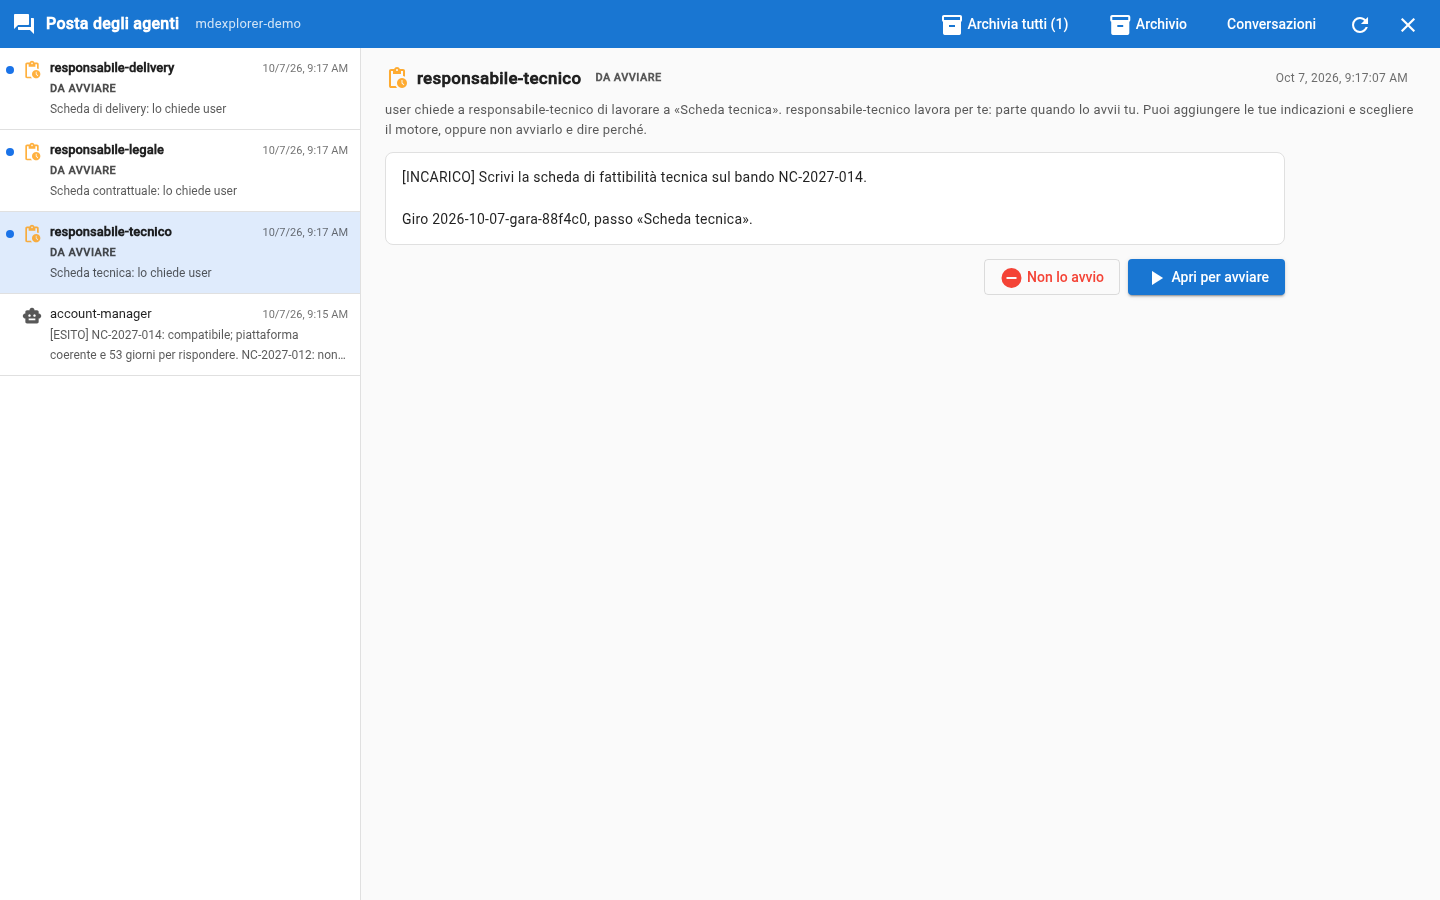
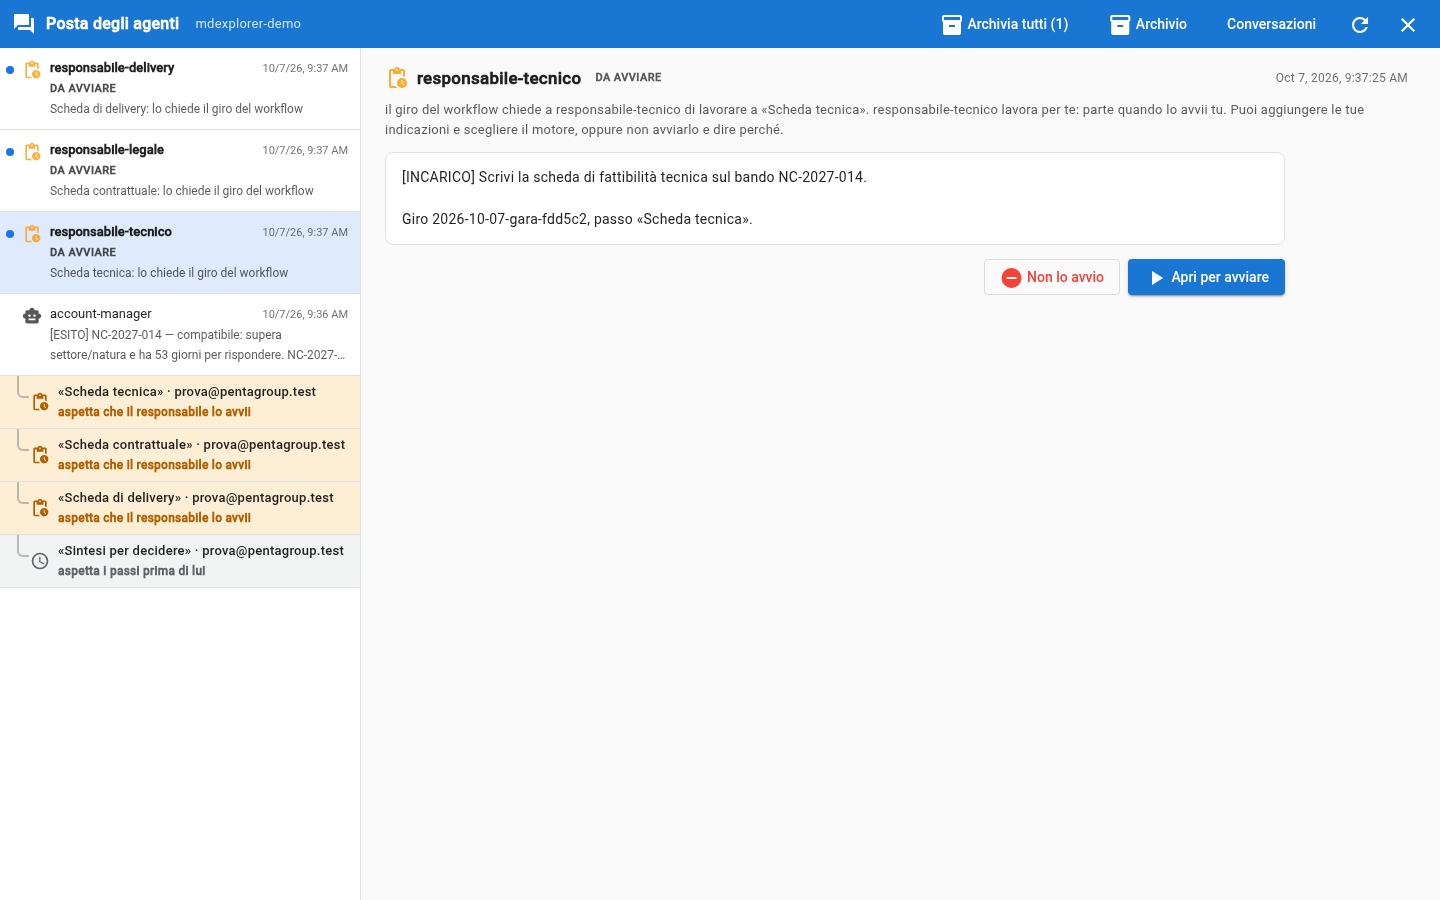
docs(presentazione): il giro con il workflow
Le slide del giro raccontano lo schedulatore: il pulsante fa partire le schede «da
avviare», una slide nuova con il diagramma generato dal workflow, le righe del giro
sotto il messaggio del pulsante, l'approvazione che fa andare avanti il giro e la
sintesi che parte da sola. Schermate ritagliate per le slide; la schermata dei «da
avviare» rifatta con «il giro del workflow».

Claude-Session: https://claude.ai/code/session_01PV9upa1CUWdniCKocNXSwe

diff --git a/citta-degli-agenti/presentazione/citta-degli-agenti.md b/citta-degli-agenti/presentazione/citta-degli-agenti.md
@@ -27,7 +27,7 @@ Lui prepara. **Tu verifichi. Tu decidi.**
 Note:
 Aprire dicendo cosa si vedrà: una gara d'appalto vera nella forma, inventata nei nomi. Quattro persone, ognuna con un assistente
 AI. Il messaggio da portare a casa è uno: gli assistenti preparano il lavoro, ma nessun lavoro passa al passo successivo
-senza un gesto di una persona.
+senza un gesto di una persona. Chi viene dopo chi lo dice un piano scritto, il workflow, e lo esegue MdExplorer.
 
 ---
 
@@ -96,7 +96,7 @@ ogni responsabile deve leggerlo cercando cose diverse. In pratica ognuno legge l
 <div class="fragment fade-in" style="background:#fff; border-radius:16px; padding:22px 26px; box-shadow:0 8px 24px rgba(15,27,45,.12); width:250px">
 <div style="font-size:.5em; color:#5f6368; font-weight:800; letter-spacing:.08em">TU</div>
 <div style="font-size:1.35em; font-weight:800; color:#188038; margin:6px 0">DECIDI</div>
-<div style="font-size:.6em; line-height:1.3">a chi passare il lavoro, e se partecipare alla gara</div>
+<div style="font-size:.6em; line-height:1.3">quando parte un lavoro, chi lo fa, e se partecipare alla gara</div>
 </div>
 
 </div>
@@ -233,23 +233,64 @@ Onestà: il sito è un file nel progetto, in azienda l'assistente lo leggerebbe 
 
 <div style="display:flex; flex-direction:column; align-items:center; gap:18px; margin-top:6px">
 
-<img src="assets/schermate/risposta.png" alt="Il pulsante Avvia il giro su NC-2027-014 sotto il messaggio dell'account manager" width="640" style="margin:0; border-radius:12px; box-shadow:0 10px 30px rgba(15,27,45,.28); border:1px solid #d6deea">
+<img src="assets/schermate/slide-da-avviare.png" alt="Le tre schede «da avviare» nella posta, con l'incarico del giro" width="900" style="margin:0; border-radius:12px; box-shadow:0 10px 30px rgba(15,27,45,.28); border:1px solid #d6deea">
 
 <div class="r-hstack" style="gap:16px; align-items:center; font-size:.62em">
-<div style="background:#fff; border-radius:12px; padding:10px 18px; box-shadow:0 6px 18px rgba(15,27,45,.12); font-weight:800; color:#f29900">account manager</div>
-<div class="fragment fade-in" style="font-size:1.4em; color:#8a99ad">→ incarico a →</div>
+<div style="background:#fff; border-radius:12px; padding:10px 18px; box-shadow:0 6px 18px rgba(15,27,45,.12); font-weight:800; color:#f29900">il tuo pulsante</div>
+<div class="fragment fade-in" style="font-size:1.4em; color:#8a99ad">→ il workflow →</div>
 <div class="fragment fade-in" style="display:flex; gap:10px">
 <div style="background:#fff; border-top:6px solid #1a73e8; border-radius:10px; padding:8px 14px; box-shadow:0 6px 18px rgba(15,27,45,.12)">tecnico</div>
 <div style="background:#fff; border-top:6px solid #7b61ff; border-radius:10px; padding:8px 14px; box-shadow:0 6px 18px rgba(15,27,45,.12)">legale</div>
 <div style="background:#fff; border-top:6px solid #188038; border-radius:10px; padding:8px 14px; box-shadow:0 6px 18px rgba(15,27,45,.12)">delivery</div>
 </div>
+<div class="fragment fade-in" style="font-size:1em; color:#b06000; font-weight:800">da avviare</div>
 </div>
 
 </div>
 
 Note:
-Un pulsante sotto il messaggio, con scritto chi viene incaricato e per fare cosa: è il tuo gesto, e si apre solo dopo che hai approvato la ricerca. L'assistente si risveglia nella stessa conversazione e incarica i tre
-responsabili. Da qui in poi lavorano per conto loro, in parallelo, ognuno nella propria copia del progetto.
+Un pulsante sotto il messaggio, con scritto che cosa succede: è il tuo gesto, e si apre solo dopo che hai approvato la ricerca.
+L'assistente dell'account manager non si sveglia e non incarica nessuno: MdExplorer legge nel workflow che questo pulsante fa
+partire le tre schede, e le mette «da avviare» nella posta di chi ne risponde. Ognuno la avvia quando vuole, con le sue
+indicazioni. Se un agente ha più responsabili, chi preme il pulsante sceglie chi lo fa.
+
+---
+
+<!-- .slide: data-background-image="assets/citta-sfondo-chiaro.svg" -->
+
+## Chi viene dopo chi: il workflow
+
+<div style="display:flex; gap:30px; align-items:center; justify-content:center">
+
+<div style="width:640px">
+
+```plantuml(@workflow, ../gara/gara.workflow.json)
+```
+
+</div>
+
+<div style="width:440px; text-align:left; font-size:.62em; line-height:1.4">
+
+<div class="fragment fade-up" style="background:#fff; border-left:8px solid #1a73e8; border-radius:10px; padding:12px 16px; box-shadow:0 6px 18px rgba(15,27,45,.12); margin-bottom:12px">
+<b>Un piano scritto</b><br>Un file del progetto: chi lavora dopo chi, chi avvia ogni passo, che cosa si aspetta.
+</div>
+
+<div class="fragment fade-up" style="background:#fff; border-left:8px solid #f29900; border-radius:10px; padding:12px 16px; box-shadow:0 6px 18px rgba(15,27,45,.12); margin-bottom:12px">
+<b>MdExplorer lo esegue</b><br>Ogni passaggio parte da un gesto di una persona o da ciò che il piano dice. Gli agenti non si scrivono tra loro.
+</div>
+
+<div class="fragment fade-up" style="background:#fff; border-left:8px solid #188038; border-radius:10px; padding:12px 16px; box-shadow:0 6px 18px rgba(15,27,45,.12); margin-bottom:12px">
+<b>Il disegno non si aggiorna a mano</b><br>È generato dal piano: quello che vedi è quello che succede.
+</div>
+
+</div>
+
+</div>
+
+Note:
+Il disegno lo fa MdExplorer dal file del workflow, quindi non può essere sbagliato rispetto a ciò che succede. Lo scrive chi
+organizza il lavoro, anche con l'aiuto di un modello, in un vocabolario fisso che MdExplorer controlla. Ogni giro lascia un
+registro in git: chi ha avviato, consegnato, approvato, e quando.
 
 ---
 
@@ -259,16 +300,16 @@ responsabili. Da qui in poi lavorano per conto loro, in parallelo, ognuno nella 
 
 <div style="display:flex; gap:30px; align-items:center; justify-content:center">
 
-<img src="assets/schermate/posta-stati.png" alt="Sotto il messaggio Giro avviato, una riga per ogni scheda attesa con il suo stato" width="700" style="margin:0; border-radius:12px; box-shadow:0 10px 30px rgba(15,27,45,.28); border:1px solid #d6deea">
+<img src="assets/schermate/slide-giro-lavorano.png" alt="Sotto il messaggio del pulsante, una riga per ogni passo del giro con il suo stato" width="680" style="margin:0; border-radius:12px; box-shadow:0 10px 30px rgba(15,27,45,.28); border:1px solid #d6deea">
 
 <div style="width:440px; text-align:left; font-size:.62em; line-height:1.4">
 
 <div class="fragment fade-up" style="background:#fff; border-left:8px solid #1a73e8; border-radius:10px; padding:12px 16px; box-shadow:0 6px 18px rgba(15,27,45,.12); margin-bottom:12px">
-<b>Una riga per scheda attesa</b><br>Sotto «Giro avviato», e cambia stato da sola.
+<b>Una riga per passo del giro</b><br>Sotto il messaggio da cui hai premuto, con chi ne risponde. Cambia stato da sola.
 </div>
 
 <div class="fragment fade-up" style="background:#fff; border-left:8px solid #f29900; border-radius:10px; padding:12px 16px; box-shadow:0 6px 18px rgba(15,27,45,.12); margin-bottom:12px">
-<b>Il colore dice lo stato</b><br>Sta lavorando, in approvazione, approvata, rifiutata.
+<b>Il colore dice lo stato</b><br>Da avviare, sta lavorando, in approvazione, approvata; la sintesi aspetta i passi prima di lei.
 </div>
 
 <div class="fragment fade-up" style="background:#fff; border-left:8px solid #d93025; border-radius:10px; padding:12px 16px; box-shadow:0 6px 18px rgba(15,27,45,.12)">
@@ -280,7 +321,8 @@ responsabili. Da qui in poi lavorano per conto loro, in parallelo, ognuno nella 
 </div>
 
 Note:
-È quello che vede chi aspetta: l'account manager sa a che punto è ogni collega senza chiederglielo. Il rifiuto è l'eccezione: di
+È quello che vede chi ha avviato il giro: l'account manager sa a che punto è ogni collega senza chiederglielo, anche se i
+colleghi lavorano su altri computer, perché ogni computer legge lo stesso registro del giro. Il rifiuto è l'eccezione: di
 solito una scheda che non convince si corregge e si approva. Se viene rifiutata resta ferma, così chi ne risponde può prima
 correggere le istruzioni dell'agente.
 
@@ -324,7 +366,7 @@ diverse. Notare che ogni affermazione cita la sezione del capitolato: la persona
 
 <div style="display:flex; gap:34px; align-items:center; justify-content:center">
 
-<img src="assets/schermate/revisione.png" alt="La richiesta di approvazione della scheda tecnica, con la scelta del destinatario e i tre gesti" width="680" style="margin:0; border-radius:12px; box-shadow:0 10px 30px rgba(15,27,45,.28); border:1px solid #d6deea">
+<img src="assets/schermate/slide-approva-scheda.png" alt="La richiesta di approvazione della scheda tecnica, con i tre gesti" width="680" style="margin:0; border-radius:12px; box-shadow:0 10px 30px rgba(15,27,45,.28); border:1px solid #d6deea">
 
 <div style="width:470px; text-align:left; font-size:.62em; line-height:1.4">
 
@@ -337,7 +379,7 @@ diverse. Notare che ogni affermazione cita la sezione del capitolato: la persona
 </div>
 
 <div class="fragment fade-up" style="margin-top:12px; background:#fff; border-left:8px solid #f29900; border-radius:10px; padding:12px 16px; box-shadow:0 6px 18px rgba(15,27,45,.12)">
-<b>«A chi passa il lavoro?»</b><br>Sei <b>tu</b> a scegliere. L'agente non lo fa da solo.
+<b>Non passi il lavoro a nessuno</b><br>Approvi e basta: chi viene dopo lo dice il workflow.
 </div>
 
 </div>
@@ -346,8 +388,7 @@ diverse. Notare che ogni affermazione cita la sezione del capitolato: la persona
 
 Note:
 Questo è il momento in cui la scheda entra o non entra nel progetto. Ogni agente ha lavorato nella sua copia, quindi le richieste
-sono tre e distinte. Il blocco «a chi passa il lavoro» mostra il destinatario dichiarato nella scheda dell'agente: se fossero due,
-sceglieresti; se non vuoi avvisare nessuno, scegli «a nessuno».
+sono tre e distinte. Approvare non vuol dire scegliere a chi passare il lavoro: quello lo dice il workflow, e lo fa MdExplorer.
 
 ---
 
@@ -393,28 +434,26 @@ scrive «da chiarire» e non la inventa.
 
 <!-- .slide: data-background-image="assets/citta-sfondo-chiaro.svg" -->
 
-## Approvare è passare il lavoro
+## Approvare fa andare avanti il giro
 
 <div style="display:flex; flex-direction:column; align-items:center; gap:16px; margin-top:0">
-
-<img src="assets/schermate/avviso.png" alt="Lavoro fuso nel ramo principale. Ho avvisato account-manager." width="640" style="margin:0; border-radius:10px; box-shadow:0 8px 24px rgba(15,27,45,.28); border:1px solid #d6deea">
 
 <div style="display:flex; gap:14px; align-items:center; font-size:.58em; text-align:left">
 <div class="fragment fade-up" style="background:#fff; border-radius:12px; padding:12px 16px; box-shadow:0 6px 18px rgba(15,27,45,.12); width:240px"><b>1. Autorizza</b><br>la scheda entra nel progetto</div>
 <div style="font-size:1.4em; color:#8a99ad">→</div>
-<div class="fragment fade-up" style="background:#fff; border-radius:12px; padding:12px 16px; box-shadow:0 6px 18px rgba(15,27,45,.12); width:240px"><b>2. L'app avvisa</b><br>l'account manager, <b>a nome tuo</b></div>
+<div class="fragment fade-up" style="background:#fff; border-radius:12px; padding:12px 16px; box-shadow:0 6px 18px rgba(15,27,45,.12); width:240px"><b>2. Il registro del giro</b><br>scrive chi ha approvato, e quando</div>
 <div style="font-size:1.4em; color:#8a99ad">→</div>
-<div class="fragment fade-up" style="background:#fff; border-radius:12px; padding:12px 16px; box-shadow:0 6px 18px rgba(15,27,45,.12); width:240px"><b>3. Lui controlla</b><br>cosa ha già e cosa manca</div>
+<div class="fragment fade-up" style="background:#fff; border-radius:12px; padding:12px 16px; box-shadow:0 6px 18px rgba(15,27,45,.12); width:240px"><b>3. Alla terza</b><br>la sintesi parte da sola</div>
 </div>
 
-<img class="fragment fade-up" src="assets/schermate/mancano.png" alt="L'account manager dice che mancano le schede contrattuale e delivery" width="620" style="margin:0; border-radius:12px; box-shadow:0 8px 24px rgba(15,27,45,.28); border:1px solid #d6deea">
+<img class="fragment fade-up" src="assets/schermate/slide-giro-approvata.png" alt="Dopo la prima approvazione: una riga verde, due in approvazione, la sintesi che aspetta" width="460" style="margin:0; border-radius:12px; box-shadow:0 10px 30px rgba(15,27,45,.28); border:1px solid #d6deea">
 
 </div>
 
 Note:
-Un solo clic fa tre cose. Il punto è il passaggio due: è l'app che avvisa il collega, a nome della persona che ha premuto. Un
-agente non può passare il lavoro a un altro da solo. Dopo la prima approvazione l'account manager risponde «mancano le altre due»:
-non scrive una sintesi su un lavoro incompleto.
+Un clic, e il giro va avanti. Nessuno passa il lavoro a mano e nessun agente ne avvisa un altro: la sintesi aspetta che le
+tre schede siano approvate, poi parte da sola sul computer dell'account manager, con i percorsi delle tre schede. Non scrive
+una sintesi su un lavoro incompleto, perché non parte finché non è completo.
 
 ---
 
@@ -448,7 +487,7 @@ non scrive una sintesi su un lavoro incompleto.
 </div>
 
 Note:
-Con le tre schede approvate, l'account manager scrive la sintesi, con gli indicatori che interessano a lui. La parte più utile
+Con le tre schede approvate, la sintesi parte da sola: l'account manager scrive gli indicatori che interessano a lui. La parte più utile
 è «dove le schede si sommano»: un punto che compare in due schede con due nomi diversi, o due punti che da soli sembrano
 piccoli e insieme sono un problema. Anche la sintesi arriva da approvare: la leggi prima, come le altre.
 
@@ -536,7 +575,7 @@ a fine aprile; il legale segnala il recesso se il decreto ritarda. Ognuno ha una
 ✔ abiliti ogni agente<br>
 ✔ leggi e verifichi ogni scheda<br>
 ✔ approvi o rifiuti<br>
-✔ scegli a chi passare il lavoro<br>
+✔ avvii i lavori e scegli chi li fa<br>
 ✔ decidi se partecipare
 </div>
 </div>
@@ -546,7 +585,7 @@ a fine aprile; il legale segnala il recesso se il decreto ritarda. Ognuno ha una
 <div style="display:flex; gap:26px; justify-content:center; margin-top:18px; font-size:.58em">
 
 <div class="fragment fade-up" style="flex:1; background:#fdecea; border-radius:12px; padding:12px 18px; color:#8c1d18; text-align:left">
-<b>Non fa mai da solo:</b> eseguire comandi sul tuo computer · inserire una scheda nel progetto · passare il lavoro a un altro · decidere
+<b>Non fa mai da solo:</b> eseguire comandi sul tuo computer · inserire una scheda nel progetto · scrivere a un altro agente · decidere
 </div>
 
 </div>
@@ -554,7 +593,7 @@ a fine aprile; il legale segnala il recesso se il decreto ritarda. Ognuno ha una
 Note:
 Riepilogo senza giri di parole. Il confine è netto: l'assistente produce e documenta, la persona verifica e decide. E ci sono
 tre cose che non fa mai da solo, qualunque cosa sia scritta in un messaggio: non esegue comandi, non fa entrare una scheda nel
-progetto, non passa il lavoro. Un messaggio ricevuto da un altro agente è un dato da controllare, non un ordine.
+progetto, non scrive a un altro agente: chi lavora dopo lo fa partire il workflow. Un messaggio è un dato da controllare, non un ordine.
 
 ---
 
@@ -570,7 +609,7 @@ progetto, non passa il lavoro. Un messaggio ricevuto da un altro agente è un da
 Gli agenti e i modelli AI che li muovono<br>
 La lettura, il confronto e le schede<br>
 Le citazioni, i calcoli e gli errori che si trovano<br>
-La tua approvazione e l'avviso al collega<br>
+La tua approvazione e il giro che va avanti<br>
 La sintesi (cambia nelle parole a ogni prova)
 </div>
 </div>

diff --git a/citta-degli-agenti/README.md b/citta-degli-agenti/README.md
@@ -22,7 +22,7 @@ prima di cominciare.
 
 ## Le presentazioni
 
-- [Un assistente per ogni persona](presentazione/citta-degli-agenti.md): l'idea, in sedici slide.
+- [Un assistente per ogni persona](presentazione/citta-degli-agenti.md): l'idea, in diciotto slide.
 - [La gara, passo per passo](presentazione/guida-passo-passo.md): cosa fare e dove cliccare, in tre parti e otto gesti, con le
   schermate dell'app di oggi: la posta a tutto schermo, il documento aperto dalla copia dell'agente, l'archivio.
 
